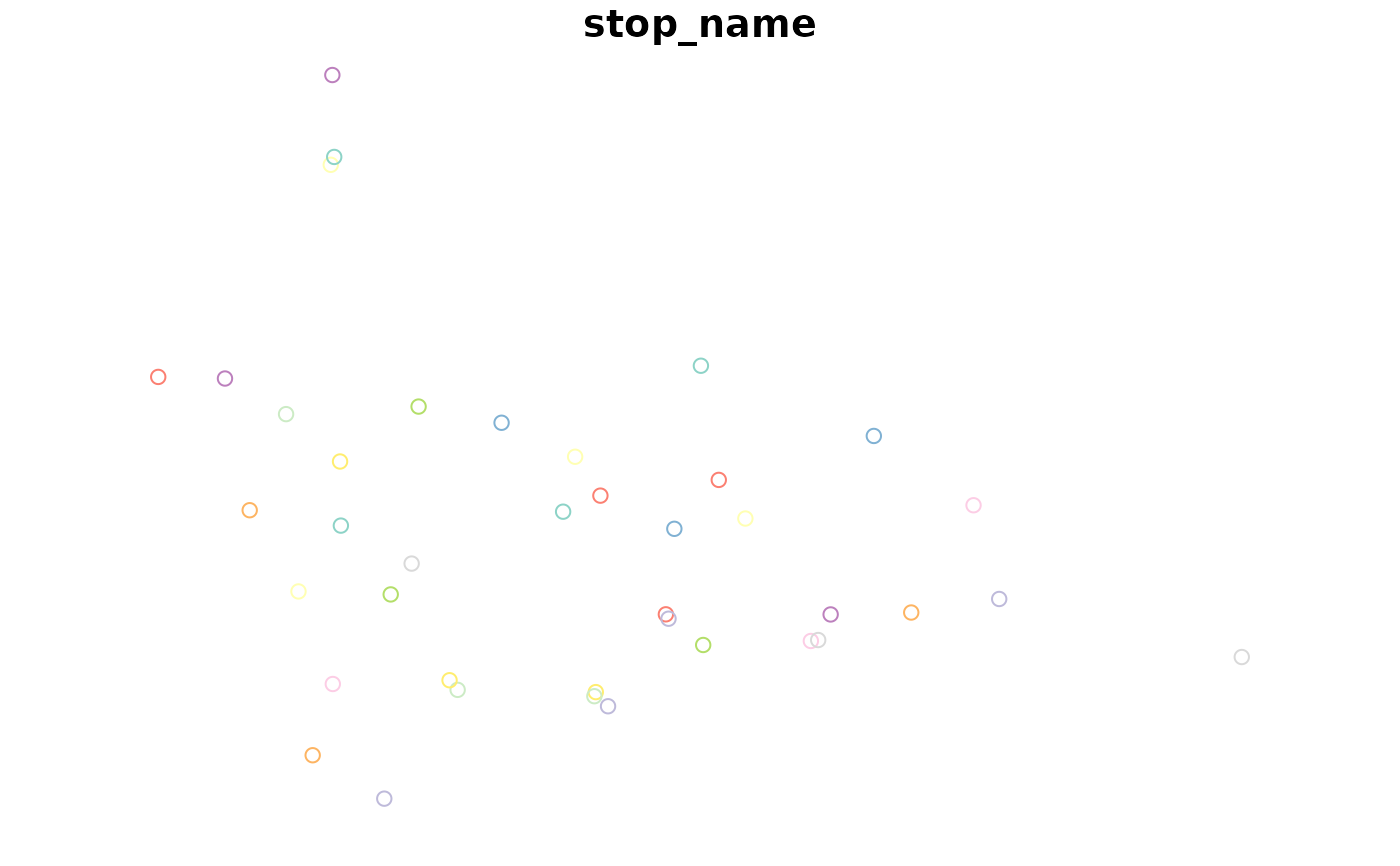
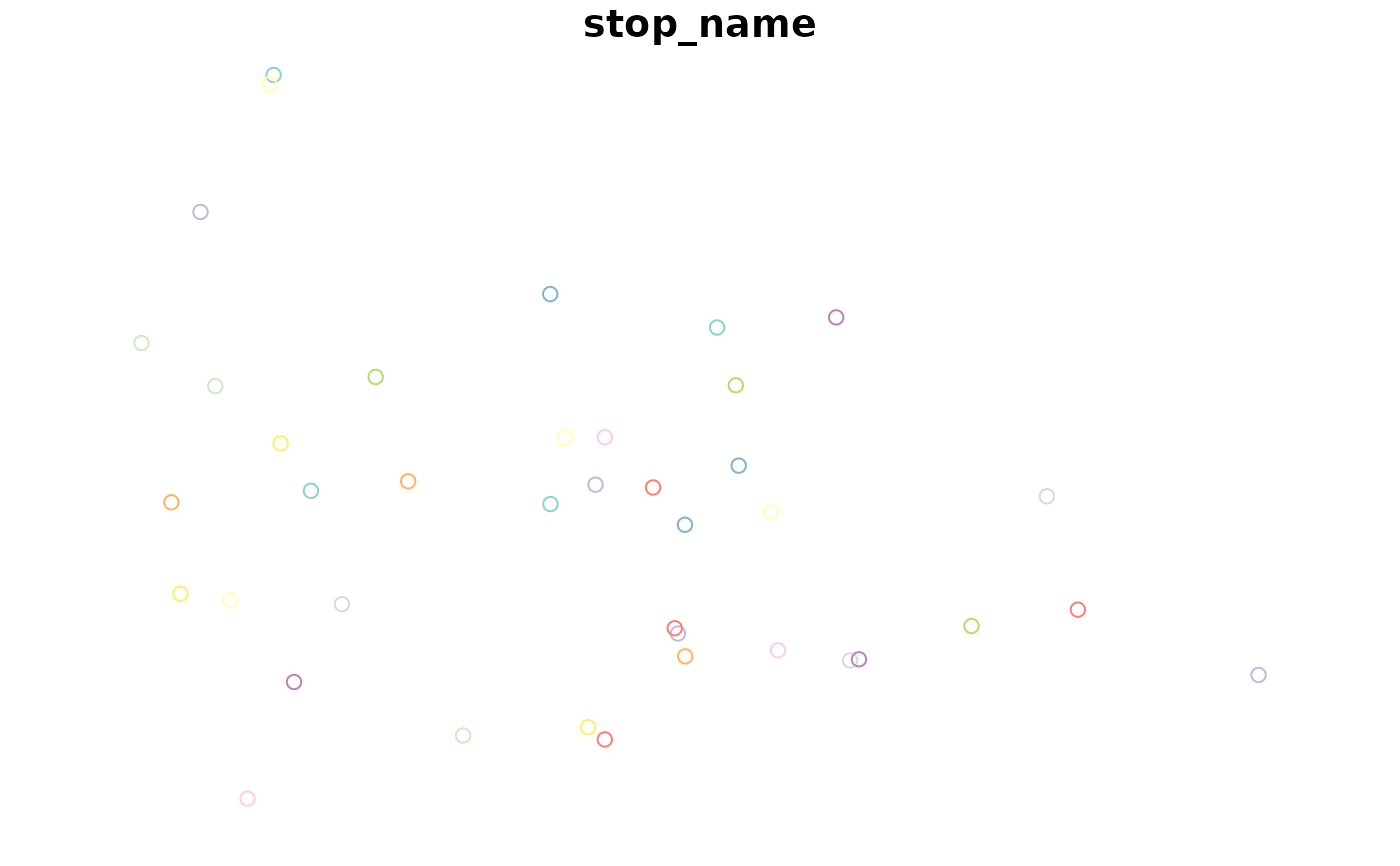
Deploying to gh-pages from @ r-transit/tidytransit@17b98410ffffa18c25e82b88e3182d8a56273d2e 🚀

diff --git a/articles/introduction.html b/articles/introduction.html
@@ -231,34 +231,34 @@ cannot handle GTFS realtime data, so we can remove those entries.</p>
 <span>  <span class="fu"><a href="https://dplyr.tidyverse.org/reference/filter.html" class="external-link">filter</a></span><span class="op">(</span><span class="va">data_type</span> <span class="op">==</span> <span class="st">"gtfs"</span><span class="op">)</span></span>
 <span></span>
 <span><span class="fu"><a href="https://rdrr.io/r/utils/str.html" class="external-link">str</a></span><span class="op">(</span><span class="va">MobilityData_feedlist</span><span class="op">)</span></span></code></pre></div>
-<pre><code><span><span class="co">## tibble [2,212 × 27] (S3: tbl_df/tbl/data.frame)</span></span>
-<span><span class="co">##  $ mdb_source_id                          : int [1:2212] 1 2 3 4 5 6 7 8 9 10 ...</span></span>
-<span><span class="co">##  $ data_type                              : chr [1:2212] "gtfs" "gtfs" "gtfs" "gtfs" ...</span></span>
-<span><span class="co">##  $ entity_type                            : chr [1:2212] "" "" "" "" ...</span></span>
-<span><span class="co">##  $ location.country_code                  : chr [1:2212] "US" "CA" "CA" "US" ...</span></span>
-<span><span class="co">##  $ location.subdivision_name              : chr [1:2212] "Maine" "Ontario" "Ontario" "Ohio" ...</span></span>
-<span><span class="co">##  $ location.municipality                  : chr [1:2212] "Casco Bay" "London" "Barrie" "Athens" ...</span></span>
-<span><span class="co">##  $ provider                               : chr [1:2212] "Casco Bay Lines" "London Transit Commission" "Barrie Transit" "Athens Public Transit" ...</span></span>
-<span><span class="co">##  $ is_official                            : chr [1:2212] "" "" "True" "" ...</span></span>
-<span><span class="co">##  $ name                                   : chr [1:2212] "" "" "" "" ...</span></span>
-<span><span class="co">##  $ note                                   : chr [1:2212] "" "" "" "" ...</span></span>
-<span><span class="co">##  $ feed_contact_email                     : chr [1:2212] "" "[email redacted]" "" "" ...</span></span>
-<span><span class="co">##  $ static_reference                       : chr [1:2212] "" "" "" "" ...</span></span>
-<span><span class="co">##  $ urls.direct_download                   : chr [1:2212] "http://smttracker.com/downloads/gtfs/cascobaylines-portland-me-usa.zip" "http://www.londontransit.ca/gtfsfeed/google_transit.zip" "http://www.myridebarrie.ca/gtfs/Google_transit.zip" "https://transitfeeds.com/p/athens-public-transit/298/latest/download" ...</span></span>
-<span><span class="co">##  $ urls.authentication_type               : int [1:2212] NA 0 NA NA NA NA NA NA 0 0 ...</span></span>
-<span><span class="co">##  $ urls.authentication_info               : chr [1:2212] "" "" "" "" ...</span></span>
-<span><span class="co">##  $ urls.api_key_parameter_name            : chr [1:2212] "" "" "" "" ...</span></span>
-<span><span class="co">##  $ urls.latest                            : chr [1:2212] "https://storage.googleapis.com/storage/v1/b/mdb-latest/o/us-maine-casco-bay-lines-gtfs-1.zip?alt=media" "https://storage.googleapis.com/storage/v1/b/mdb-latest/o/ca-ontario-london-transit-commission-gtfs-2.zip?alt=media" "https://storage.googleapis.com/storage/v1/b/mdb-latest/o/ca-ontario-barrie-transit-gtfs-3.zip?alt=media" "https://storage.googleapis.com/storage/v1/b/mdb-latest/o/us-ohio-athens-public-transit-gtfs-4.zip?alt=media" ...</span></span>
-<span><span class="co">##  $ urls.license                           : chr [1:2212] "" "https://www.londontransit.ca/open-data/ltcs-open-data-terms-of-use/" "https://www.barrie.ca/services-payments/transportation-parking/barrie-transit/barrie-gtfs" "" ...</span></span>
-<span><span class="co">##  $ location.bounding_box.minimum_latitude : num [1:2212] 43.7 42.9 44.3 39.3 44.1 ...</span></span>
-<span><span class="co">##  $ location.bounding_box.maximum_latitude : num [1:2212] 43.7 43.1 44.4 39.4 45 ...</span></span>
-<span><span class="co">##  $ location.bounding_box.minimum_longitude: num [1:2212] -70.2 -81.4 -79.7 -82.1 -75.8 ...</span></span>
-<span><span class="co">##  $ location.bounding_box.maximum_longitude: num [1:2212] -70.1 -81.1 -79.6 -82 -74.6 ...</span></span>
-<span><span class="co">##  $ location.bounding_box.extracted_on     : chr [1:2212] "2022-02-22T19:51:22+00:00" "2022-02-22T19:51:34+00:00" "2022-03-01T22:43:25+00:00" "2022-03-23T14:43:11+00:00" ...</span></span>
-<span><span class="co">##  $ status                                 : chr [1:2212] "inactive" "" "" "deprecated" ...</span></span>
-<span><span class="co">##  $ features                               : chr [1:2212] "" "" "" "" ...</span></span>
-<span><span class="co">##  $ redirect.id                            : chr [1:2212] "" "" "" "1973" ...</span></span>
-<span><span class="co">##  $ redirect.comment                       : chr [1:2212] "" "" "" "" ...</span></span></code></pre>
+<pre><code><span><span class="co">## tibble [2,227 × 27] (S3: tbl_df/tbl/data.frame)</span></span>
+<span><span class="co">##  $ mdb_source_id                          : int [1:2227] 1 2 3 4 5 6 7 8 9 10 ...</span></span>
+<span><span class="co">##  $ data_type                              : chr [1:2227] "gtfs" "gtfs" "gtfs" "gtfs" ...</span></span>
+<span><span class="co">##  $ entity_type                            : chr [1:2227] "" "" "" "" ...</span></span>
+<span><span class="co">##  $ location.country_code                  : chr [1:2227] "US" "CA" "CA" "US" ...</span></span>
+<span><span class="co">##  $ location.subdivision_name              : chr [1:2227] "Maine" "Ontario" "Ontario" "Ohio" ...</span></span>
+<span><span class="co">##  $ location.municipality                  : chr [1:2227] "Casco Bay" "London" "Barrie" "Athens" ...</span></span>
+<span><span class="co">##  $ provider                               : chr [1:2227] "Casco Bay Lines" "London Transit Commission" "Barrie Transit" "Athens Public Transit" ...</span></span>
+<span><span class="co">##  $ is_official                            : chr [1:2227] "" "" "True" "" ...</span></span>
+<span><span class="co">##  $ name                                   : chr [1:2227] "" "" "" "" ...</span></span>
+<span><span class="co">##  $ note                                   : chr [1:2227] "" "" "" "" ...</span></span>
+<span><span class="co">##  $ feed_contact_email                     : chr [1:2227] "" "[email redacted]" "" "" ...</span></span>
+<span><span class="co">##  $ static_reference                       : chr [1:2227] "" "" "" "" ...</span></span>
+<span><span class="co">##  $ urls.direct_download                   : chr [1:2227] "http://smttracker.com/downloads/gtfs/cascobaylines-portland-me-usa.zip" "http://www.londontransit.ca/gtfsfeed/google_transit.zip" "http://www.myridebarrie.ca/gtfs/Google_transit.zip" "https://transitfeeds.com/p/athens-public-transit/298/latest/download" ...</span></span>
+<span><span class="co">##  $ urls.authentication_type               : int [1:2227] NA 0 NA NA NA NA NA NA 0 0 ...</span></span>
+<span><span class="co">##  $ urls.authentication_info               : chr [1:2227] "" "" "" "" ...</span></span>
+<span><span class="co">##  $ urls.api_key_parameter_name            : chr [1:2227] "" "" "" "" ...</span></span>
+<span><span class="co">##  $ urls.latest                            : chr [1:2227] "https://storage.googleapis.com/storage/v1/b/mdb-latest/o/us-maine-casco-bay-lines-gtfs-1.zip?alt=media" "https://storage.googleapis.com/storage/v1/b/mdb-latest/o/ca-ontario-london-transit-commission-gtfs-2.zip?alt=media" "https://storage.googleapis.com/storage/v1/b/mdb-latest/o/ca-ontario-barrie-transit-gtfs-3.zip?alt=media" "https://storage.googleapis.com/storage/v1/b/mdb-latest/o/us-ohio-athens-public-transit-gtfs-4.zip?alt=media" ...</span></span>
+<span><span class="co">##  $ urls.license                           : chr [1:2227] "" "https://www.londontransit.ca/open-data/ltcs-open-data-terms-of-use/" "https://www.barrie.ca/services-payments/transportation-parking/barrie-transit/barrie-gtfs" "" ...</span></span>
+<span><span class="co">##  $ location.bounding_box.minimum_latitude : num [1:2227] 43.7 42.9 44.3 39.3 44.1 ...</span></span>
+<span><span class="co">##  $ location.bounding_box.maximum_latitude : num [1:2227] 43.7 43.1 44.4 39.4 45 ...</span></span>
+<span><span class="co">##  $ location.bounding_box.minimum_longitude: num [1:2227] -70.2 -81.4 -79.7 -82.1 -75.8 ...</span></span>
+<span><span class="co">##  $ location.bounding_box.maximum_longitude: num [1:2227] -70.1 -81.1 -79.6 -82 -74.6 ...</span></span>
+<span><span class="co">##  $ location.bounding_box.extracted_on     : chr [1:2227] "2022-02-22T19:51:22+00:00" "2022-02-22T19:51:34+00:00" "2022-03-01T22:43:25+00:00" "2022-03-23T14:43:11+00:00" ...</span></span>
+<span><span class="co">##  $ status                                 : chr [1:2227] "inactive" "" "" "deprecated" ...</span></span>
+<span><span class="co">##  $ features                               : chr [1:2227] "" "" "" "" ...</span></span>
+<span><span class="co">##  $ redirect.id                            : chr [1:2227] "" "" "" "1973" ...</span></span>
+<span><span class="co">##  $ redirect.comment                       : chr [1:2227] "" "" "" "" ...</span></span></code></pre>
 <p>There is a URL (column <code>urls.direct_download</code>) for each
 feed, which can be used to read the feed for a given area directly into
 R. For example:</p>

diff --git a/articles/introduction.md b/articles/introduction.md
@@ -182,34 +182,34 @@ MobilityData_feedlist = MobilityData.csv %>%
 str(MobilityData_feedlist)
 ```
 
-    ## tibble [2,212 × 27] (S3: tbl_df/tbl/data.frame)
-    ##  $ mdb_source_id                          : int [1:2212] 1 2 3 4 5 6 7 8 9 10 ...
-    ##  $ data_type                              : chr [1:2212] "gtfs" "gtfs" "gtfs" "gtfs" ...
-    ##  $ entity_type                            : chr [1:2212] "" "" "" "" ...
-    ##  $ location.country_code                  : chr [1:2212] "US" "CA" "CA" "US" ...
-    ##  $ location.subdivision_name              : chr [1:2212] "Maine" "Ontario" "Ontario" "Ohio" ...
-    ##  $ location.municipality                  : chr [1:2212] "Casco Bay" "London" "Barrie" "Athens" ...
-    ##  $ provider                               : chr [1:2212] "Casco Bay Lines" "London Transit Commission" "Barrie Transit" "Athens Public Transit" ...
-    ##  $ is_official                            : chr [1:2212] "" "" "True" "" ...
-    ##  $ name                                   : chr [1:2212] "" "" "" "" ...
-    ##  $ note                                   : chr [1:2212] "" "" "" "" ...
-    ##  $ feed_contact_email                     : chr [1:2212] "" "[email redacted]" "" "" ...
-    ##  $ static_reference                       : chr [1:2212] "" "" "" "" ...
-    ##  $ urls.direct_download                   : chr [1:2212] "http://smttracker.com/downloads/gtfs/cascobaylines-portland-me-usa.zip" "http://www.londontransit.ca/gtfsfeed/google_transit.zip" "http://www.myridebarrie.ca/gtfs/Google_transit.zip" "https://transitfeeds.com/p/athens-public-transit/298/latest/download" ...
-    ##  $ urls.authentication_type               : int [1:2212] NA 0 NA NA NA NA NA NA 0 0 ...
-    ##  $ urls.authentication_info               : chr [1:2212] "" "" "" "" ...
-    ##  $ urls.api_key_parameter_name            : chr [1:2212] "" "" "" "" ...
-    ##  $ urls.latest                            : chr [1:2212] "https://storage.googleapis.com/storage/v1/b/mdb-latest/o/us-maine-casco-bay-lines-gtfs-1.zip?alt=media" "https://storage.googleapis.com/storage/v1/b/mdb-latest/o/ca-ontario-london-transit-commission-gtfs-2.zip?alt=media" "https://storage.googleapis.com/storage/v1/b/mdb-latest/o/ca-ontario-barrie-transit-gtfs-3.zip?alt=media" "https://storage.googleapis.com/storage/v1/b/mdb-latest/o/us-ohio-athens-public-transit-gtfs-4.zip?alt=media" ...
-    ##  $ urls.license                           : chr [1:2212] "" "https://www.londontransit.ca/open-data/ltcs-open-data-terms-of-use/" "https://www.barrie.ca/services-payments/transportation-parking/barrie-transit/barrie-gtfs" "" ...
-    ##  $ location.bounding_box.minimum_latitude : num [1:2212] 43.7 42.9 44.3 39.3 44.1 ...
-    ##  $ location.bounding_box.maximum_latitude : num [1:2212] 43.7 43.1 44.4 39.4 45 ...
-    ##  $ location.bounding_box.minimum_longitude: num [1:2212] -70.2 -81.4 -79.7 -82.1 -75.8 ...
-    ##  $ location.bounding_box.maximum_longitude: num [1:2212] -70.1 -81.1 -79.6 -82 -74.6 ...
-    ##  $ location.bounding_box.extracted_on     : chr [1:2212] "2022-02-22T19:51:22+00:00" "2022-02-22T19:51:34+00:00" "2022-03-01T22:43:25+00:00" "2022-03-23T14:43:11+00:00" ...
-    ##  $ status                                 : chr [1:2212] "inactive" "" "" "deprecated" ...
-    ##  $ features                               : chr [1:2212] "" "" "" "" ...
-    ##  $ redirect.id                            : chr [1:2212] "" "" "" "1973" ...
-    ##  $ redirect.comment                       : chr [1:2212] "" "" "" "" ...
+    ## tibble [2,227 × 27] (S3: tbl_df/tbl/data.frame)
+    ##  $ mdb_source_id                          : int [1:2227] 1 2 3 4 5 6 7 8 9 10 ...
+    ##  $ data_type                              : chr [1:2227] "gtfs" "gtfs" "gtfs" "gtfs" ...
+    ##  $ entity_type                            : chr [1:2227] "" "" "" "" ...
+    ##  $ location.country_code                  : chr [1:2227] "US" "CA" "CA" "US" ...
+    ##  $ location.subdivision_name              : chr [1:2227] "Maine" "Ontario" "Ontario" "Ohio" ...
+    ##  $ location.municipality                  : chr [1:2227] "Casco Bay" "London" "Barrie" "Athens" ...
+    ##  $ provider                               : chr [1:2227] "Casco Bay Lines" "London Transit Commission" "Barrie Transit" "Athens Public Transit" ...
+    ##  $ is_official                            : chr [1:2227] "" "" "True" "" ...
+    ##  $ name                                   : chr [1:2227] "" "" "" "" ...
+    ##  $ note                                   : chr [1:2227] "" "" "" "" ...
+    ##  $ feed_contact_email                     : chr [1:2227] "" "[email redacted]" "" "" ...
+    ##  $ static_reference                       : chr [1:2227] "" "" "" "" ...
+    ##  $ urls.direct_download                   : chr [1:2227] "http://smttracker.com/downloads/gtfs/cascobaylines-portland-me-usa.zip" "http://www.londontransit.ca/gtfsfeed/google_transit.zip" "http://www.myridebarrie.ca/gtfs/Google_transit.zip" "https://transitfeeds.com/p/athens-public-transit/298/latest/download" ...
+    ##  $ urls.authentication_type               : int [1:2227] NA 0 NA NA NA NA NA NA 0 0 ...
+    ##  $ urls.authentication_info               : chr [1:2227] "" "" "" "" ...
+    ##  $ urls.api_key_parameter_name            : chr [1:2227] "" "" "" "" ...
+    ##  $ urls.latest                            : chr [1:2227] "https://storage.googleapis.com/storage/v1/b/mdb-latest/o/us-maine-casco-bay-lines-gtfs-1.zip?alt=media" "https://storage.googleapis.com/storage/v1/b/mdb-latest/o/ca-ontario-london-transit-commission-gtfs-2.zip?alt=media" "https://storage.googleapis.com/storage/v1/b/mdb-latest/o/ca-ontario-barrie-transit-gtfs-3.zip?alt=media" "https://storage.googleapis.com/storage/v1/b/mdb-latest/o/us-ohio-athens-public-transit-gtfs-4.zip?alt=media" ...
+    ##  $ urls.license                           : chr [1:2227] "" "https://www.londontransit.ca/open-data/ltcs-open-data-terms-of-use/" "https://www.barrie.ca/services-payments/transportation-parking/barrie-transit/barrie-gtfs" "" ...
+    ##  $ location.bounding_box.minimum_latitude : num [1:2227] 43.7 42.9 44.3 39.3 44.1 ...
+    ##  $ location.bounding_box.maximum_latitude : num [1:2227] 43.7 43.1 44.4 39.4 45 ...
+    ##  $ location.bounding_box.minimum_longitude: num [1:2227] -70.2 -81.4 -79.7 -82.1 -75.8 ...
+    ##  $ location.bounding_box.maximum_longitude: num [1:2227] -70.1 -81.1 -79.6 -82 -74.6 ...
+    ##  $ location.bounding_box.extracted_on     : chr [1:2227] "2022-02-22T19:51:22+00:00" "2022-02-22T19:51:34+00:00" "2022-03-01T22:43:25+00:00" "2022-03-23T14:43:11+00:00" ...
+    ##  $ status                                 : chr [1:2227] "inactive" "" "" "deprecated" ...
+    ##  $ features                               : chr [1:2227] "" "" "" "" ...
+    ##  $ redirect.id                            : chr [1:2227] "" "" "" "1973" ...
+    ##  $ redirect.comment                       : chr [1:2227] "" "" "" "" ...
 
 There is a URL (column `urls.direct_download`) for each feed, which can
 be used to read the feed for a given area directly into R. For example: